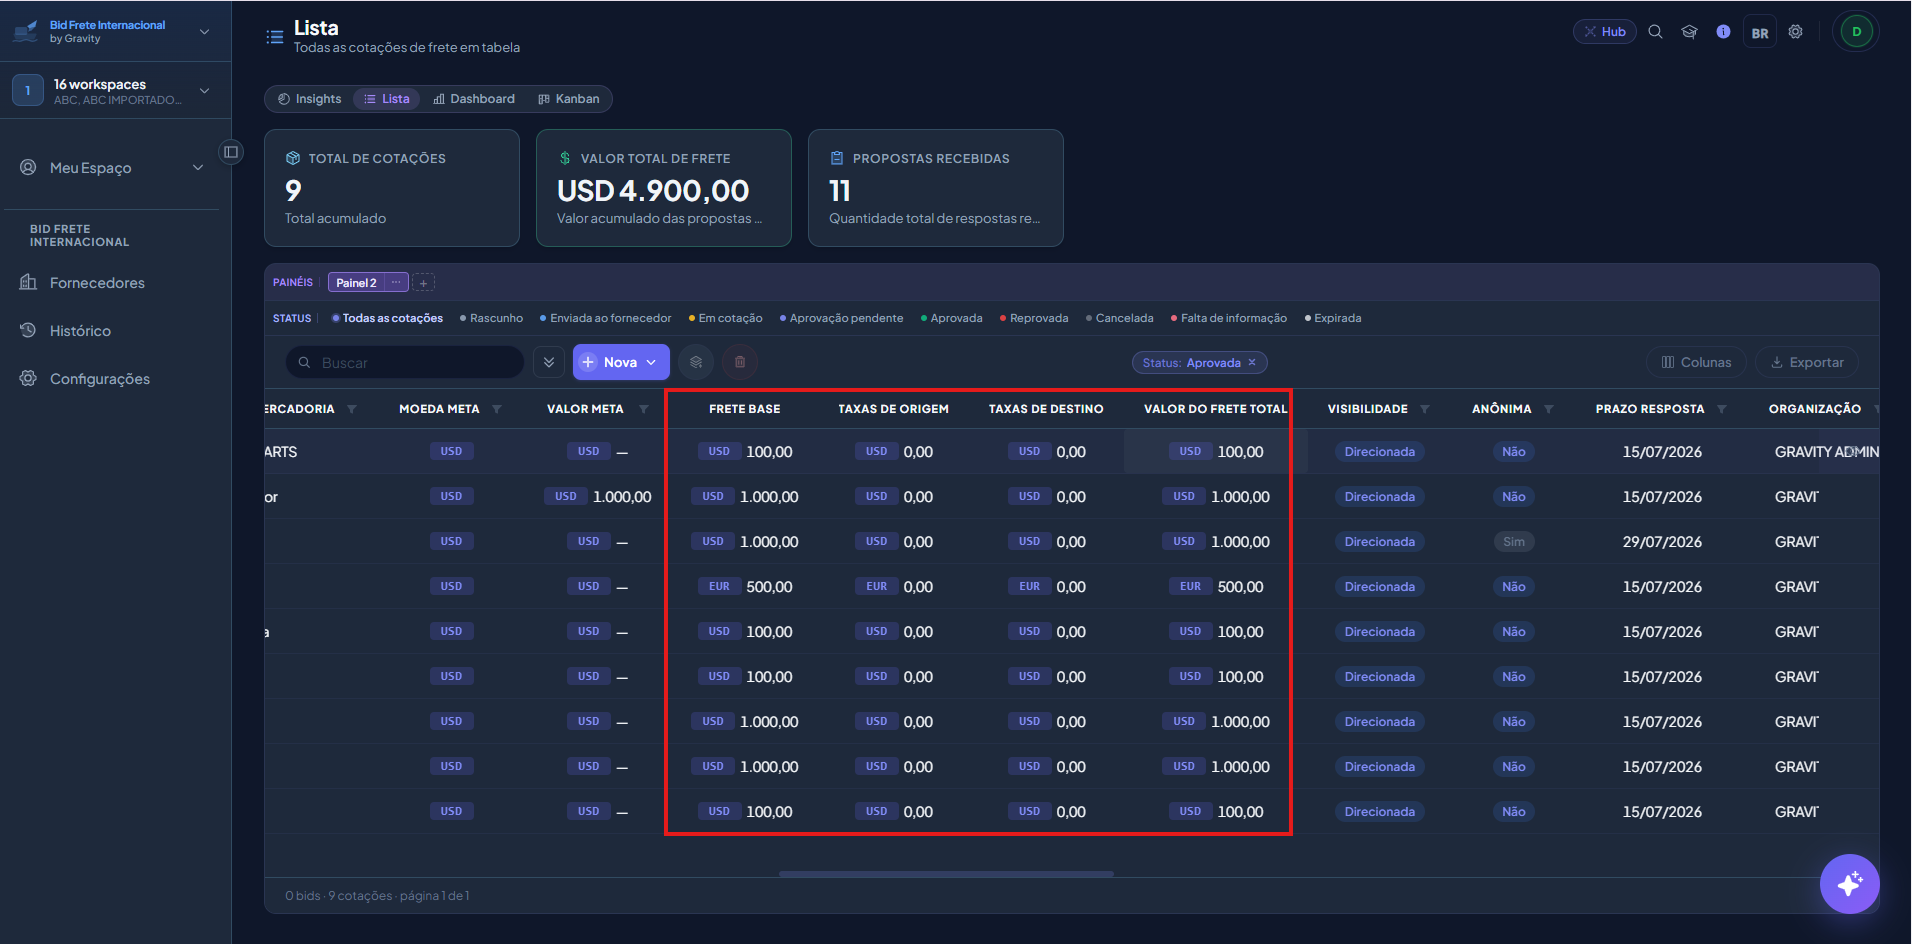
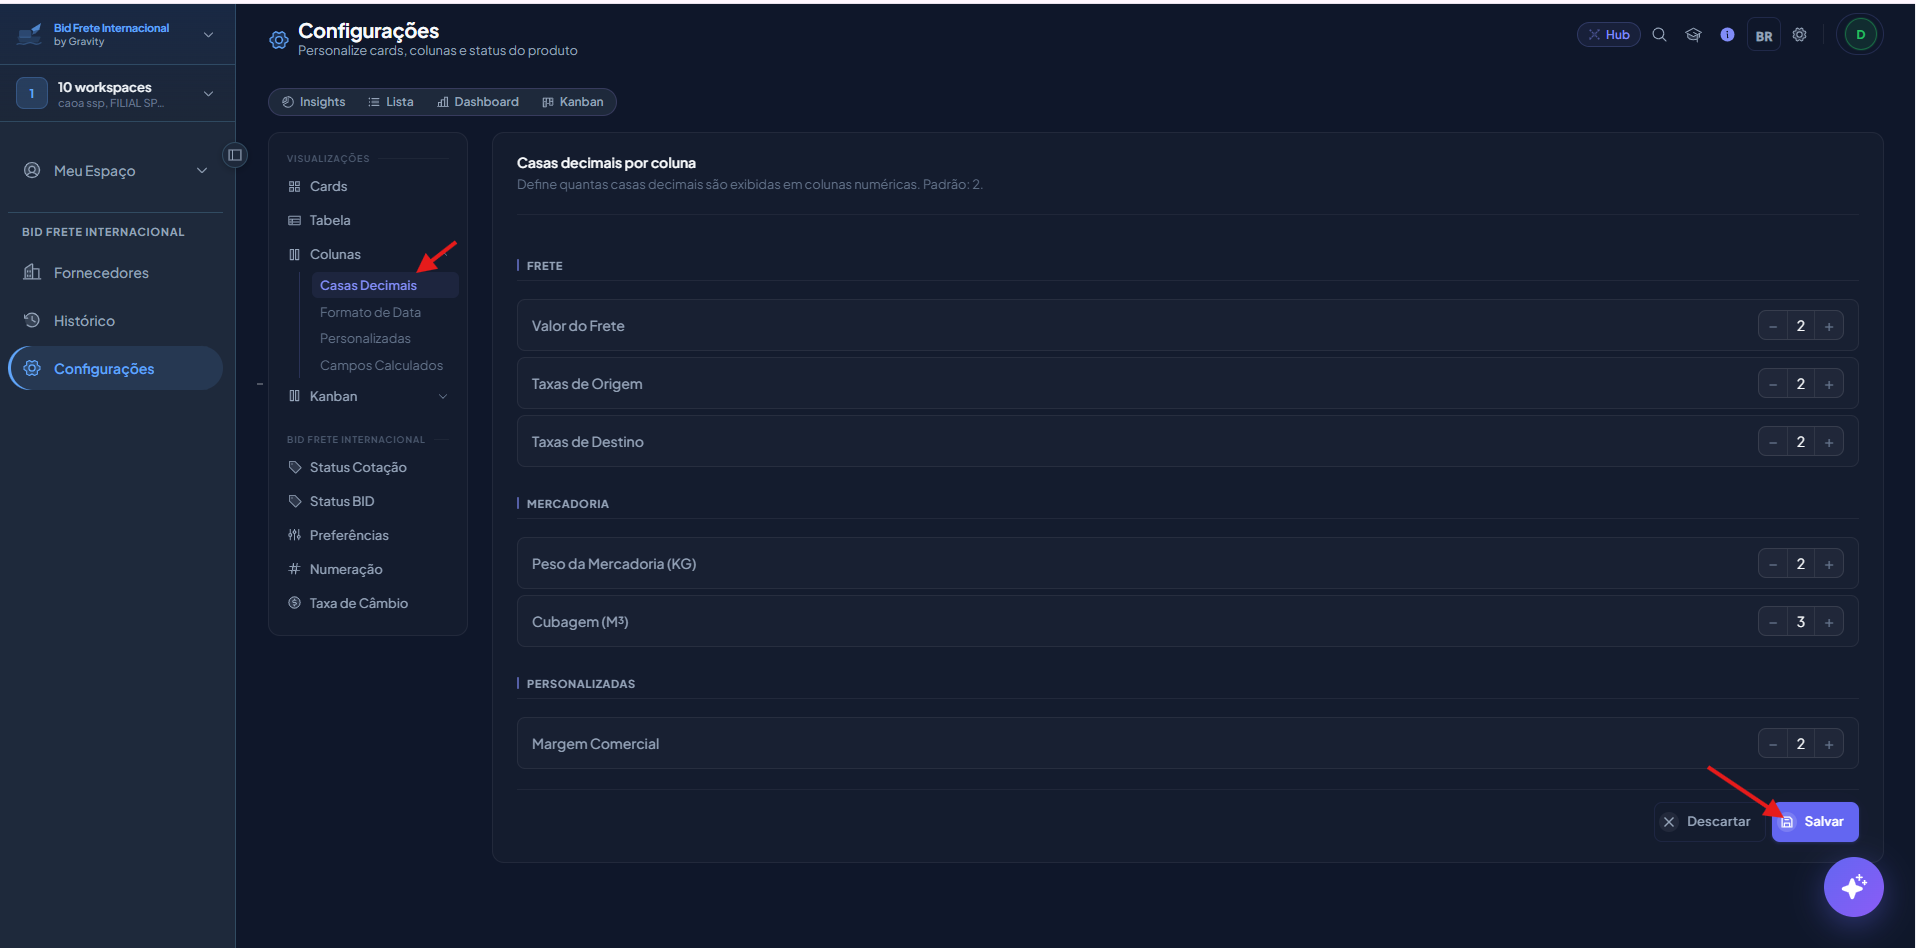
fix(bid-frete): e-mail Resposta do fornecedor ao comprador e manual Configuracoes
Dispara enviarEmailRespostaFornecedorCompradorBidFreteInternacional apos envio ou alteracao de proposta quando a preferencia esta ligada. Atualiza capitulos Preferencias, Status, Taxa de Cambio no manual Academy com prints e textos revisados.

diff --git a/servicos-global/configurador/src/pages/university/manual-bid-frete-configuracoes-conteudo.ts b/servicos-global/configurador/src/pages/university/manual-bid-frete-configuracoes-conteudo.ts
@@ -12,6 +12,11 @@ function fig(sufixoDrive: string, paragrafoAntes: string) {
   return { legenda: '', imagem: S(sufixoDrive), paragrafoAntes }
 }
 
+const CALLOUT_SALVAR_CONFIGURACOES = {
+  tipo: 'dica' as const,
+  texto: 'É obrigatório salvar as modificações clicando em {{botao:salvar-configuracoes}}',
+}
+
 function renumerarPassos(passos: PassoSemNumero[]): DocPassoVisual[] {
   return passos.map((passo, i) => ({ ...passo, num: i + 1 }))
 }
@@ -20,7 +25,7 @@ export const PASSOS_MANUAL_BID_FRETE_CONFIGURACOES: DocPassoVisual[] = renumerar
   {
     titulo: 'Visão geral das Configurações',
     paragrafos: [
-      'No menu lateral do **BID Frete Internacional**, **Configurações** concentra preferências do workspace: **status**, **numeração**, **taxa de câmbio**, **colunas** da lista, **cards** de Insights, **Kanban** e demais abas administrativas.',
+      'No menu lateral do **BID Frete Internacional**, **Configurações** concentra preferências do workspace: **status**, **taxa de câmbio**, **colunas** da lista, **cards** de Insights, **Kanban** e demais abas administrativas.',
     ],
     imagem: S('configuracoes_tabela'),
     imagemAbaixoTexto: true,
@@ -272,31 +277,136 @@ export const PASSOS_MANUAL_BID_FRETE_CONFIGURACOES: DocPassoVisual[] = renumerar
     ],
   },
   {
-    titulo: 'Status e preferências',
-    paragrafos: ['Defina **rótulos** dos status e **preferências gerais** do produto.'],
+    titulo: 'Status de cotação',
+    tituloCurto: 'Status',
+    paragrafos: [
+      '**Status de Cotação** lista todos os status do workspace.',
+    ],
     galeriaComparacaoAposParagrafo: [
       {
         indice: 0,
-        colunas: 2,
+        colunas: 1,
         textoAcimaEstiloCorpo: true,
         telas: [
-          fig('configuracoes_status', '**Status** — fluxo e rótulos na Lista/Kanban'),
-          fig('configuracoes_preferencia', '**Preferências** — comportamentos padrão'),
+          {
+            legenda: '',
+            imagem: S('status_1'),
+            paragrafoAntes: 'Lista de status',
+            calloutDepois: {
+              tipo: 'dica',
+              texto:
+                '**Arraste** para reordenar (reflete no Kanban). Status de **sistema** são fixos — sem editar ou excluir.',
+            },
+          },
+          {
+            legenda: '',
+            imagem: S('status_4'),
+            paragrafoAntes:
+              'Informe o **nome** do novo status, clique **+ Adicionar à lista** e, em seguida, **Salvar** no rodapé para gravar.',
+            calloutDepois: {
+              tipo: 'dica',
+              texto:
+                'É obrigatório clicar em {{botao:salvar-configuracoes}} — sem **Salvar**, o status novo não é persistido no workspace.',
+            },
+          },
+          {
+            legenda: '',
+            imagem: S('status_5'),
+            paragrafoAntes:
+              'Após **Salvar**, o **novo status** aparece no **painel de seleção de status** da **Lista**.',
+          },
+          {
+            legenda: '',
+            imagem: S('status_6'),
+            paragrafoAntes:
+              '**Editar** status customizado **na Lista** — abra o seletor **STATUS** da cotação, escolha o **novo status** e clique **Confirmar**.',
+          },
         ],
       },
     ],
+    callout: CALLOUT_SALVAR_CONFIGURACOES,
   },
   {
-    titulo: 'Numeração e taxa de câmbio',
-    paragrafos: ['Configure **sequência de numeração** e **taxas de câmbio** de referência.'],
+    titulo: 'Preferências',
+    paragrafos: [
+      'Em **Preferências**, defina padrões da organização para novas cotações — **autorização do fornecedor** editar proposta e **cópias de e-mail** transacionais para você.',
+    ],
     galeriaComparacaoAposParagrafo: [
       {
         indice: 0,
-        colunas: 2,
+        colunas: 1,
+        rotuloPasso: 'Autorização para fornecedor atualizar cotação',
+        textoAcimaEstiloCorpo: true,
+        textoIntro:
+          'O **padrão do workspace** define se o fornecedor pode alterar dados da proposta **até a validade**. Com o toggle **desligado** (padrão), o fornecedor **não edita** após o envio; no wizard **Nova cotação**, a escolha **Sim/Não** por cotação continua **obrigatória**.',
+        telas: [
+          {
+            legenda: '',
+            imagem: S('preferencia_alterar_cotacao_1'),
+            paragrafoAntes:
+              'Abra **Configurações → Preferências** e ligue ou desligue **O fornecedor pode alterar dados da cotação até a validade**.',
+          },
+          {
+            legenda: '',
+            imagem: S('preferencia_alterar_cotacao_2'),
+            paragrafoAntes:
+              'A seleção em **Configurações** irá preencher esse campo como **padrão** em todas as cotações.',
+          },
+          {
+            legenda: '',
+            imagem: S('preferencia_alterar_cotacao_3'),
+            paragrafoAntes:
+              'Com permissão ativa, o fornecedor edita a proposta no **portal de resposta** enquanto o **prazo de resposta** estiver aberto.',
+          },
+        ],
+      },
+      {
+        indice: 0,
+        colunas: 1,
+        rotuloPasso: 'Configuração de e-mails',
+        textoAcimaEstiloCorpo: true,
+        textoIntro:
+          'Em **E-mails para você**, ative cópias transacionais no **seu e-mail** cadastrado na organização. São **três tipos** independentes — ligue só o que precisa acompanhar.',
+        telas: [
+          {
+            legenda: '',
+            imagem: S('preferencia_email_cotacao_1'),
+            paragrafoAntes:
+              '**Envio da solicitação** — confirmação quando a cotação é disparada aos fornecedores. **Resposta do fornecedor** — aviso ao enviar ou atualizar proposta. **Confirmação do vencedor** — quando o ganhador aceita após aprovação.',
+          },
+          {
+            legenda: '',
+            imagem: S('preferencia_email_cotacao_2'),
+            paragrafoAntes:
+              'Com **Resposta do fornecedor** ligado, chega e-mail **Nova resposta** (primeiro envio) ou **Proposta atualizada** (alteração) quando o fornecedor envia ou altera a proposta na cotação.',
+          },
+          {
+            legenda: '',
+            imagem: S('preferencia_email_cotacao_4'),
+            paragrafoAntes:
+              'Com **Confirmação do fornecedor vencedor** ligado, chega e-mail **Aceite confirmado** quando o ganhador confirma **Recebi e estou de acordo**.',
+          },
+        ],
+      },
+    ],
+    callout: CALLOUT_SALVAR_CONFIGURACOES,
+  },
+  {
+    titulo: 'Taxa de Câmbio',
+    tituloCurto: 'Taxa de câmbio',
+    paragrafos: [
+      'Em **Configurações → Taxa de Câmbio**, você controla a cotação das **principais moedas do mundo** em **quatro boletins diários** (PTAX) e a **projeção do dólar futuro** (BACEN Focus).',
+    ],
+    galeriaComparacaoAposParagrafo: [
+      {
+        indice: 0,
+        colunas: 1,
         textoAcimaEstiloCorpo: true,
         telas: [
-          fig('configuracoes_numeracao', '**Numeração** — prefixo e próximo número'),
-          fig('configuracoes_taxa_cambio', '**Taxa de câmbio** — moedas e cotações'),
+          {
+            legenda: '',
+            imagem: S('preferencia_taxa_cambio'),
+          },
         ],
       },
     ],

diff --git a/servicos-global/configurador/src/pages/university/manual-bid-frete-catalogo-screenshots.ts b/servicos-global/configurador/src/pages/university/manual-bid-frete-catalogo-screenshots.ts
@@ -51,7 +51,22 @@ export const MAPA_SCREENSHOTS_BID_FRETE_INT: Record<string, string> = {
   'configuracoes_kanban': '/university/screenshots/bid-frete-int-configuracoes-kanban.png',
   'configuracoes_numeracao': '/university/screenshots/bid-frete-int-configuracoes-numeracao.png',
   'configuracoes_preferencia': '/university/screenshots/bid-frete-int-configuracoes-preferencia.png',
+  'preferencia_alterar_cotacao_1': '/university/screenshots/bid-frete-int-preferencia-alterar-cotacao-1.png',
+  'preferencia_alterar_cotacao_2': '/university/screenshots/bid-frete-int-preferencia-alterar-cotacao-2.png',
+  'preferencia_alterar_cotacao_3': '/university/screenshots/bid-frete-int-preferencia-alterar-cotacao-3.png',
+  'preferencia_email_cotacao_1': '/university/screenshots/bid-frete-int-preferencia-email-cotacao-1.png',
+  'preferencia_email_cotacao_2': '/university/screenshots/bid-frete-int-preferencia-email-cotacao-2.png',
+  'preferencia_email_cotacao_3': '/university/screenshots/bid-frete-int-preferencia-email-cotacao-3.png',
+  'preferencia_email_cotacao_4': '/university/screenshots/bid-frete-int-preferencia-email-cotacao-4.png',
+  'preferencia_email_cotacao_4b': '/university/screenshots/bid-frete-int-preferencia-email-cotacao-4b.png',
+  'preferencia_taxa_cambio': '/university/screenshots/bid-frete-int-preferencia-taxa-cambio.png',
   'configuracoes_status': '/university/screenshots/bid-frete-int-configuracoes-status.png',
+  'status_1': '/university/screenshots/bid-frete-int-status-1.png',
+  'status_2': '/university/screenshots/bid-frete-int-status-2.png',
+  'status_3': '/university/screenshots/bid-frete-int-status-3.png',
+  'status_4': '/university/screenshots/bid-frete-int-status-4.png',
+  'status_5': '/university/screenshots/bid-frete-int-status-5.png',
+  'status_6': '/university/screenshots/bid-frete-int-status-6.png',
   'configuracoes_tabela_1': '/university/screenshots/bid-frete-int-configuracoes-tabela-1.png',
   'configuracoes_tabela_2': '/university/screenshots/bid-frete-int-configuracoes-tabela-2.png',
   'configuracoes_tabela': '/university/screenshots/bid-frete-int-configuracoes-tabela.png',
@@ -325,7 +340,22 @@ export const SCREENSHOT_BID_FRETE_INT_CONFIGURACOES_KANBAN_TELA = screenshotBidF
 export const SCREENSHOT_BID_FRETE_INT_CONFIGURACOES_KANBAN = screenshotBidFreteInt('configuracoes_kanban')
 export const SCREENSHOT_BID_FRETE_INT_CONFIGURACOES_NUMERACAO = screenshotBidFreteInt('configuracoes_numeracao')
 export const SCREENSHOT_BID_FRETE_INT_CONFIGURACOES_PREFERENCIA = screenshotBidFreteInt('configuracoes_preferencia')
+export const SCREENSHOT_BID_FRETE_INT_PREFERENCIA_ALTERAR_COTACAO_1 = screenshotBidFreteInt('preferencia_alterar_cotacao_1')
+export const SCREENSHOT_BID_FRETE_INT_PREFERENCIA_ALTERAR_COTACAO_2 = screenshotBidFreteInt('preferencia_alterar_cotacao_2')
+export const SCREENSHOT_BID_FRETE_INT_PREFERENCIA_ALTERAR_COTACAO_3 = screenshotBidFreteInt('preferencia_alterar_cotacao_3')
+export const SCREENSHOT_BID_FRETE_INT_PREFERENCIA_EMAIL_COTACAO_1 = screenshotBidFreteInt('preferencia_email_cotacao_1')
+export const SCREENSHOT_BID_FRETE_INT_PREFERENCIA_EMAIL_COTACAO_2 = screenshotBidFreteInt('preferencia_email_cotacao_2')
+export const SCREENSHOT_BID_FRETE_INT_PREFERENCIA_EMAIL_COTACAO_3 = screenshotBidFreteInt('preferencia_email_cotacao_3')
+export const SCREENSHOT_BID_FRETE_INT_PREFERENCIA_EMAIL_COTACAO_4 = screenshotBidFreteInt('preferencia_email_cotacao_4')
+export const SCREENSHOT_BID_FRETE_INT_PREFERENCIA_EMAIL_COTACAO_4B = screenshotBidFreteInt('preferencia_email_cotacao_4b')
+export const SCREENSHOT_BID_FRETE_INT_PREFERENCIA_TAXA_CAMBIO = screenshotBidFreteInt('preferencia_taxa_cambio')
 export const SCREENSHOT_BID_FRETE_INT_CONFIGURACOES_STATUS = screenshotBidFreteInt('configuracoes_status')
+export const SCREENSHOT_BID_FRETE_INT_STATUS_1 = screenshotBidFreteInt('status_1')
+export const SCREENSHOT_BID_FRETE_INT_STATUS_2 = screenshotBidFreteInt('status_2')
+export const SCREENSHOT_BID_FRETE_INT_STATUS_3 = screenshotBidFreteInt('status_3')
+export const SCREENSHOT_BID_FRETE_INT_STATUS_4 = screenshotBidFreteInt('status_4')
+export const SCREENSHOT_BID_FRETE_INT_STATUS_5 = screenshotBidFreteInt('status_5')
+export const SCREENSHOT_BID_FRETE_INT_STATUS_6 = screenshotBidFreteInt('status_6')
 export const SCREENSHOT_BID_FRETE_INT_CONFIGURACOES_TABELA_1 = screenshotBidFreteInt('configuracoes_tabela_1')
 export const SCREENSHOT_BID_FRETE_INT_CONFIGURACOES_TABELA_2 = screenshotBidFreteInt('configuracoes_tabela_2')
 export const SCREENSHOT_BID_FRETE_INT_CONFIGURACOES_TABELA = screenshotBidFreteInt('configuracoes_tabela')

diff --git a/servicos-global/produto/bid-frete-internacional/server/src/services/enviar-proposta-disparo-bid-frete-internacional.ts b/servicos-global/produto/bid-frete-internacional/server/src/services/enviar-proposta-disparo-bid-frete-internacional.ts
@@ -21,6 +21,7 @@ import {
   type OrigemRegistroAlteracaoProposta,
 } from '../lib/registrar-alteracao-proposta-bid-frete-internacional.js'
 import { enviarEmailAlteracaoPropostaBidFreteInternacional } from './enviar-email-alteracao-proposta-bid-frete-internacional.js'
+import { enviarEmailRespostaFornecedorCompradorBidFreteInternacional } from './enviar-emails-comprador-bid-frete-internacional.js'
 import { lerPreferenciasNotificacaoBidFreteInternacional } from '../lib/ler-preferencias-notificacao-bid-frete-internacional.js'
 
 export interface DadosPropostaDisparo {
@@ -135,6 +136,10 @@ export async function enviarPropostaDisparoBidFreteInternacional(
           modalidade_cotacao_bid_frete_internacional: true,
           incluir_armazenagem_cotacao_bid_frete_internacional: true,
           modal_cotacao_bid_frete_internacional: true,
+          origem_nome_cotacao_bid_frete_internacional: true,
+          origem_pais_cotacao_bid_frete_internacional: true,
+          destino_nome_cotacao_bid_frete_internacional: true,
+          destino_pais_cotacao_bid_frete_internacional: true,
           porto_origem_cotacao_bid_frete_internacional: true,
           porto_destino_cotacao_bid_frete_internacional: true,
           aeroporto_origem_cotacao_bid_frete_internacional: true,
@@ -345,6 +350,12 @@ async function posSalvarPropostaComRastreabilidade(
       id_usuario: string
       numero_cotacao_bid_frete_internacional: string
       status_cotacao_bid_frete_internacional?: string | null
+      modal_cotacao_bid_frete_internacional?: string | null
+      modalidade_cotacao_bid_frete_internacional?: string | null
+      origem_nome_cotacao_bid_frete_internacional?: string | null
+      origem_pais_cotacao_bid_frete_internacional?: string | null
+      destino_nome_cotacao_bid_frete_internacional?: string | null
+      destino_pais_cotacao_bid_frete_internacional?: string | null
     } | null
   },
   ctx: {
@@ -387,6 +398,37 @@ async function posSalvarPropostaComRastreabilidade(
       tipo: ctx.modo === 'editar' ? 'atualizar' : 'criar',
       moeda: registro.snapshot_depois.moeda_proposta_bid_frete_internacional,
       alteracoes: registro.alteracoes,
+    })
+  }
+
+  if (cotacao) {
+    const totalRespondidos = await (prisma as any).disparoCotacaoBidFreteInternacional.count({
+      where: {
+        id_cotacao_bid_frete_internacional: disparo.id_cotacao_bid_frete_internacional,
+        status_disparo_cotacao_bid_frete_internacional: 'RESPONDIDO',
+      },
+    })
+    const diasTransito = Number(ctx.propostaDepois.dias_transito_proposta_bid_frete_internacional ?? 0)
+
+    await enviarEmailRespostaFornecedorCompradorBidFreteInternacional(prisma, {
+      id_organizacao: disparo.id_organizacao,
+      id_usuario: cotacao.id_usuario,
+      id_cotacao_bid_frete_internacional: cotacao.id_cotacao_bid_frete_internacional,
+      parametros: {
+        numeroCotacao: cotacao.numero_cotacao_bid_frete_internacional,
+        nomeFornecedor: fornecedorNome,
+        tipo: ctx.modo === 'editar' ? 'atualizar' : 'criar',
+        moeda: registro.snapshot_depois.moeda_proposta_bid_frete_internacional,
+        valorTotal: ctx.valorTotal,
+        diasTransito: Number.isFinite(diasTransito) ? diasTransito : 0,
+        modal: cotacao.modal_cotacao_bid_frete_internacional ?? '',
+        modalidade: cotacao.modalidade_cotacao_bid_frete_internacional,
+        origemNome: cotacao.origem_nome_cotacao_bid_frete_internacional ?? '',
+        origemPais: cotacao.origem_pais_cotacao_bid_frete_internacional ?? '',
+        destinoNome: cotacao.destino_nome_cotacao_bid_frete_internacional ?? '',
+        destinoPais: cotacao.destino_pais_cotacao_bid_frete_internacional ?? '',
+        quantidadePropostasRecebidas: totalRespondidos,
+      },
     })
   }
 

diff --git a/servicos-global/configurador/src/pages/university/academy-bloco-passo-visual.tsx b/servicos-global/configurador/src/pages/university/academy-bloco-passo-visual.tsx
@@ -262,6 +262,24 @@ function CalloutPasso({ callout }: { callout: { tipo: string; texto: string } })
  * Passo visual — ritmo Guia (`/modelo-espacamento-guia`): 12px no corpo e entre partes
  * (rótulo↔título↔parágrafos↔screenshot↔callout). Margem externa do bloco vem do PlayerAula.
  */
+function AcademyPassoParagrafosComCallouts({ passo }: { passo: DocPassoVisual }) {
+  if (!passo.paragrafos?.length) return null
+  return (
+    <div style={{ display: 'flex', flexDirection: 'column', gap: MANUAL_ESPACO_ENTRE_PARAGRAFOS_GUIA_PX }}>
+      {passo.paragrafos.map((p, i) => (
+        <React.Fragment key={i}>
+          <p style={{ ...ESTILO_CORPO, margin: 0 }}>
+            <AcademyTextoRich texto={p} />
+          </p>
+          {passo.calloutAposParagrafo?.indice === i ? (
+            <CalloutPasso callout={passo.calloutAposParagrafo.callout} />
+          ) : null}
+        </React.Fragment>
+      ))}
+    </div>
+  )
+}
+
 export function AcademyBlocoPassoVisual({
   passo,
   primeiro: _primeiro,
@@ -342,13 +360,7 @@ export function AcademyBlocoPassoVisual({
         <p style={ESTILO_PASSO_TITULO}>{passo.titulo}</p>
       ) : null}
       {temParagrafos ? (
-        <div style={{ display: 'flex', flexDirection: 'column', gap: MANUAL_ESPACO_ENTRE_PARAGRAFOS_GUIA_PX }}>
-          {passo.paragrafos!.map((p, i) => (
-            <p key={i} style={{ ...ESTILO_CORPO, margin: 0 }}>
-              <AcademyTextoRich texto={p} />
-            </p>
-          ))}
-        </div>
+        <AcademyPassoParagrafosComCallouts passo={passo} />
       ) : null}
     </>
   )
@@ -511,13 +523,7 @@ export function AcademyBlocoPassoVisual({
             <p style={ESTILO_PASSO_TITULO}>{passo.titulo}</p>
           ) : null}
           {temParagrafos ? (
-            <div style={{ display: 'flex', flexDirection: 'column', gap: MANUAL_ESPACO_ENTRE_PARAGRAFOS_GUIA_PX }}>
-              {passo.paragrafos!.map((p, i) => (
-                <p key={i} style={{ ...ESTILO_CORPO, margin: 0 }}>
-                  <AcademyTextoRich texto={p} />
-                </p>
-              ))}
-            </div>
+            <AcademyPassoParagrafosComCallouts passo={passo} />
           ) : null}
           {passo.linkCapitulo && (
             <p style={{ margin: 0 }}>

diff --git a/servicos-global/configurador/src/pages/university/manual-bid-frete-conteudo.ts b/servicos-global/configurador/src/pages/university/manual-bid-frete-conteudo.ts
@@ -1081,7 +1081,7 @@ export const DOC_BID_FRETE_SECAO: DocSecao = {
       ancoraPassosPrefix: 'configuracoes',
       mostrarMapaSubtopicosPassos: true,
       paragrafos: [
-        'No menu lateral, **Configurações** reúne status, numeração, taxa de câmbio, colunas, cards de Insights e Kanban.',
+        'No menu lateral, **Configurações** reúne status, taxa de câmbio, colunas, cards de Insights e Kanban.',
       ],
       passosVisuais: PASSOS_MANUAL_BID_FRETE_CONFIGURACOES,
     },

diff --git a/servicos-global/configurador/src/pages/university/manual-configurador-ui.tsx b/servicos-global/configurador/src/pages/university/manual-configurador-ui.tsx
@@ -1558,7 +1558,7 @@ const ESTILO_BOTAO_AMPLIAR: React.CSSProperties = {
 }
 
 /** Bump ao adicionar PNGs novos — evita cache de HTML (SPA fallback) quando o arquivo ainda não existia. */
-const MANUAL_SCREENSHOT_CACHE_KEY = '251'
+const MANUAL_SCREENSHOT_CACHE_KEY = '255'
 
 function urlScreenshotManual(src: string): string {
   const sep = src.includes('?') ? '&' : '?'
